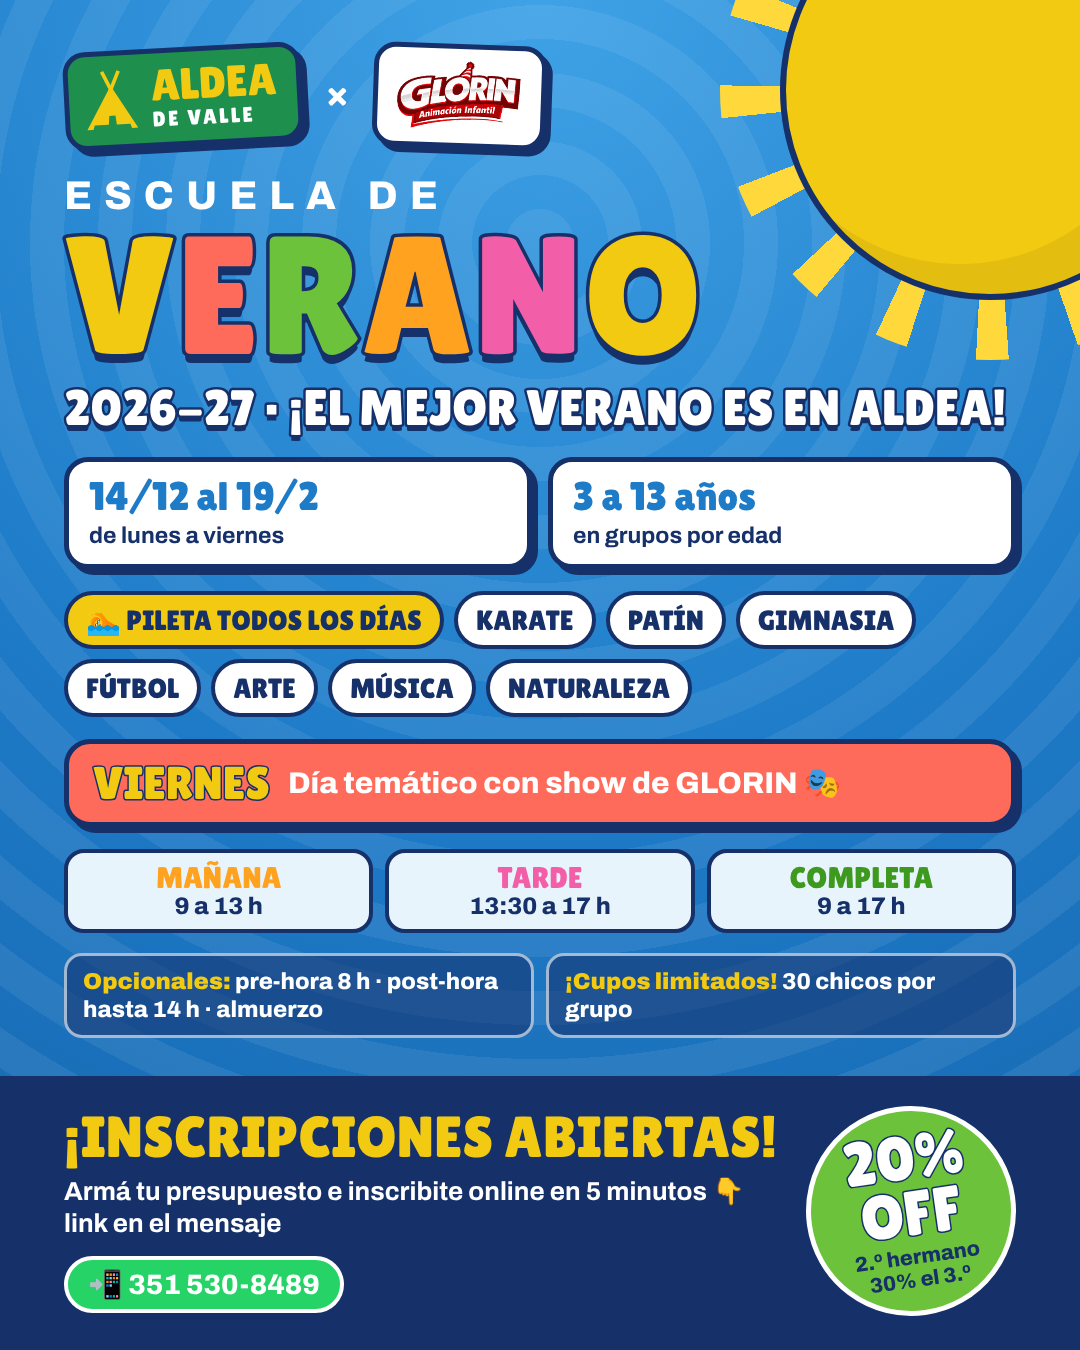
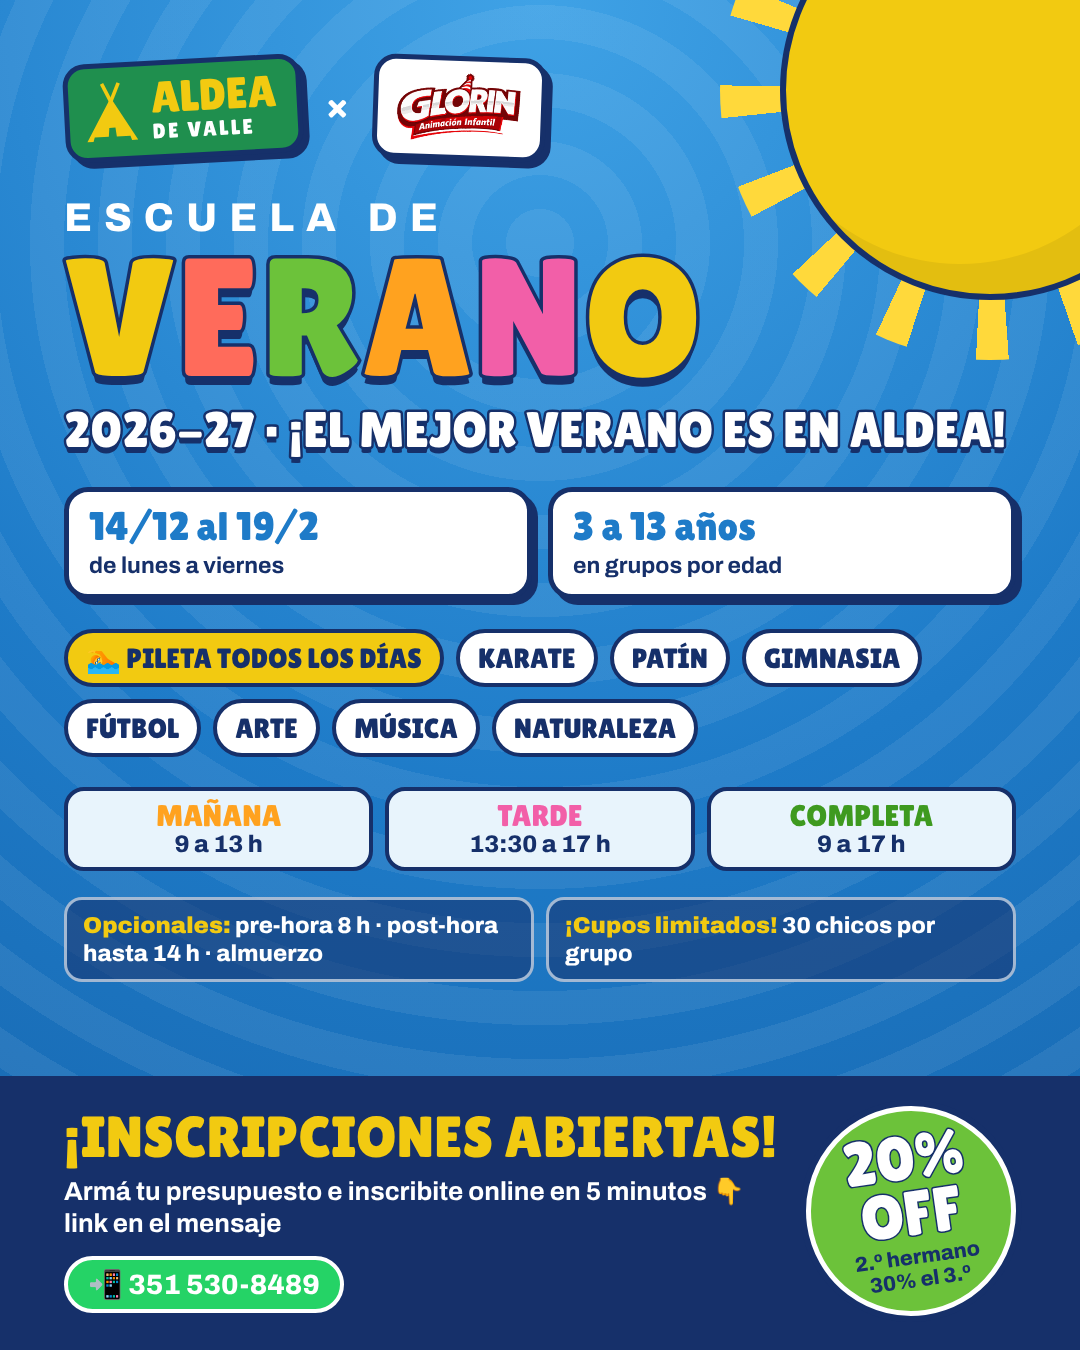
Flyer: sin el bloque de los viernes
Claude-Session: https://claude.ai/code/session_01Pv3htfUX7DsSfM44mpFigY

diff --git a/escuela-verano/difusion/flyer.html b/escuela-verano/difusion/flyer.html
@@ -14,7 +14,7 @@ body{width:1080px;height:1350px;overflow:hidden;font-family:'Archivo',sans-serif
 .sol{position:absolute;top:-120px;right:-120px;width:420px;height:420px;border-radius:50%;background:var(--amarillo);border:6px solid var(--marino);box-shadow:inset -30px -30px 0 rgba(0,0,0,.06)}
 .rayos{position:absolute;top:-180px;right:-180px;width:540px;height:540px;border-radius:50%;
   background:repeating-conic-gradient(#FFD93B 0 7deg,transparent 7deg 22deg)}
-.wrap{position:relative;padding:44px 64px 0}
+.wrap{position:relative;padding:56px 64px 0}
 .marcas{display:flex;align-items:center;gap:22px}
 .aldea{display:inline-flex;align-items:center;gap:12px;background:#1F8F4E;border:5px solid var(--marino);border-radius:22px;padding:12px 20px 12px 14px;transform:rotate(-3deg);box-shadow:6px 6px 0 var(--marino)}
 .aldea svg{height:64px;width:auto;color:var(--amarillo)}
@@ -23,27 +23,27 @@ body{width:1080px;height:1350px;overflow:hidden;font-family:'Archivo',sans-serif
 .x{font:44px 'Lilita One';color:#fff}
 .glorin{background:#fff;border:5px solid var(--marino);border-radius:22px;padding:8px 16px;transform:rotate(2deg);box-shadow:6px 6px 0 var(--marino)}
 .glorin img{height:78px;display:block}
-.ceja{margin-top:26px;font:800 40px 'Archivo';letter-spacing:.3em;color:#fff;text-transform:uppercase}
+.ceja{margin-top:36px;font:800 40px 'Archivo';letter-spacing:.3em;color:#fff;text-transform:uppercase}
 .titulo{font:168px/0.86 'Lilita One';margin-top:6px;letter-spacing:.01em}
 .titulo span{display:inline-block;-webkit-text-stroke:7px var(--marino);paint-order:stroke fill;text-shadow:0 9px 0 var(--marino)}
 .l1{color:var(--amarillo)}.l2{color:var(--coral)}.l3{color:var(--verde)}.l4{color:var(--naranja)}.l5{color:var(--rosa)}.l6{color:#fff}
 .sub{font:50px/1 'Lilita One';color:#fff;-webkit-text-stroke:5px var(--marino);paint-order:stroke fill;text-shadow:0 6px 0 var(--marino);margin-top:16px}
-.datos{display:flex;gap:16px;margin-top:24px}
+.datos{display:flex;gap:16px;margin-top:32px}
 .dato{background:#fff;border:5px solid var(--marino);border-radius:24px;padding:14px 20px;box-shadow:6px 6px 0 var(--marino);flex:1}
 .dato b{display:block;font:40px/1 'Lilita One';color:var(--azul)}
 .dato span{display:block;font:700 23px/1.2 'Archivo';margin-top:6px}
-.chips{display:flex;flex-wrap:wrap;gap:10px;margin-top:22px}
+.chips{display:flex;flex-wrap:wrap;gap:12px;margin-top:30px}
 .chip{font:28px/1 'Lilita One';text-transform:uppercase;padding:11px 18px;border:4px solid var(--marino);border-radius:999px;background:#fff}
 .chip.pileta{background:var(--amarillo)}
 .viernes{margin-top:22px;background:var(--coral);border:5px solid var(--marino);border-radius:26px;padding:16px 24px;box-shadow:6px 6px 0 var(--marino);color:#fff;display:flex;align-items:center;gap:18px}
 .viernes b{font:46px/1 'Lilita One';color:var(--amarillo);-webkit-text-stroke:3px var(--marino);paint-order:stroke fill}
 .viernes span{font:800 30px/1.15 'Archivo'}
-.horarios{display:flex;gap:12px;margin-top:22px}
+.horarios{display:flex;gap:12px;margin-top:30px}
 .h{flex:1;border:4px solid var(--marino);border-radius:20px;background:var(--crema);padding:10px 12px;text-align:center}
 .h b{display:block;font:30px/1 'Lilita One';text-transform:uppercase}
 .h span{font:800 24px 'Archivo'}
 .m b{color:var(--naranja)}.t b{color:var(--rosa)}.c b{color:#3E9A1F}
-.extra{display:flex;gap:12px;margin-top:20px}
+.extra{display:flex;gap:12px;margin-top:26px}
 .ex{flex:1;font:800 23px/1.2 'Archivo';color:#fff;background:rgba(22,48,106,.55);border:3px solid rgba(255,255,255,.6);border-radius:18px;padding:12px 16px}
 .ex b{color:var(--amarillo);font-weight:900}
 .pie{position:absolute;left:0;right:0;bottom:0;background:var(--marino);color:#fff;padding:30px 64px 34px;display:flex;align-items:center;gap:26px}
@@ -73,7 +73,6 @@ body{width:1080px;height:1350px;overflow:hidden;font-family:'Archivo',sans-serif
     <span class="chip pileta">🏊 Pileta todos los días</span><span class="chip">Karate</span><span class="chip">Patín</span><span class="chip">Gimnasia</span>
     <span class="chip">Fútbol</span><span class="chip">Arte</span><span class="chip">Música</span><span class="chip">Naturaleza</span>
   </div>
-  <div class="viernes"><b>VIERNES</b><span>Día temático con show de GLORIN 🎭</span></div>
   <div class="horarios">
     <div class="h m"><b>Mañana</b><span>9 a 13 h</span></div>
     <div class="h t"><b>Tarde</b><span>13:30 a 17 h</span></div>
